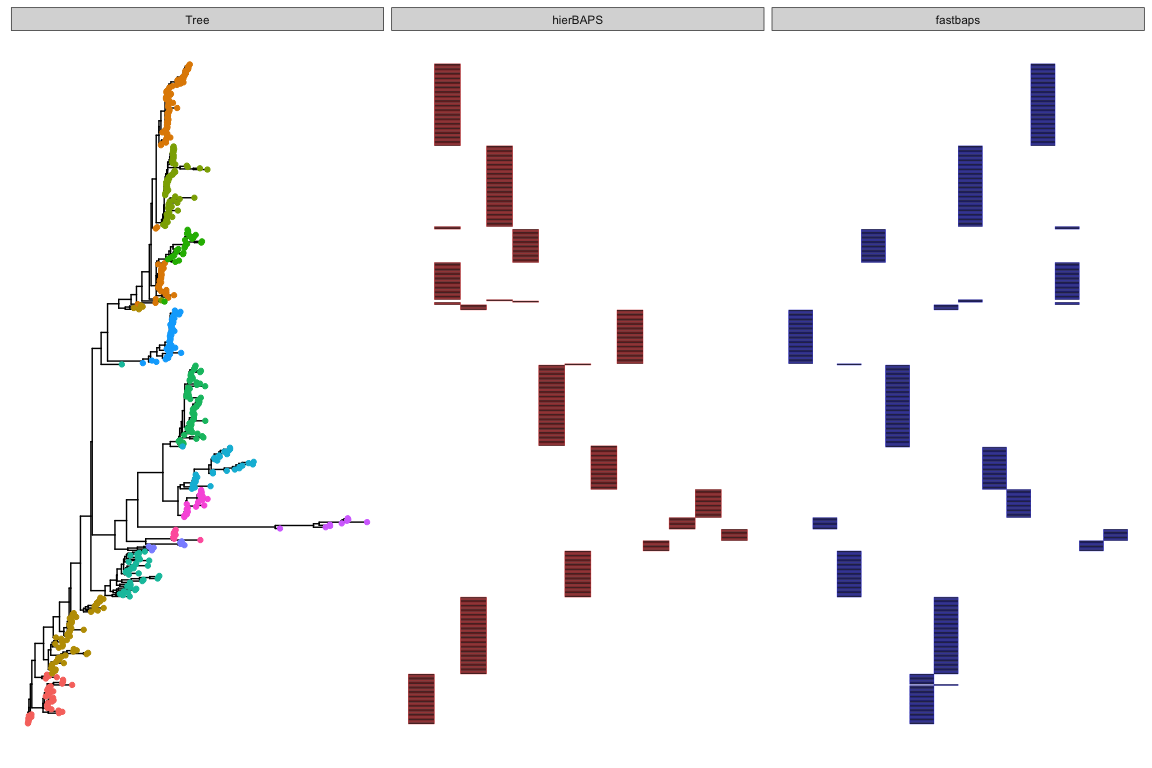
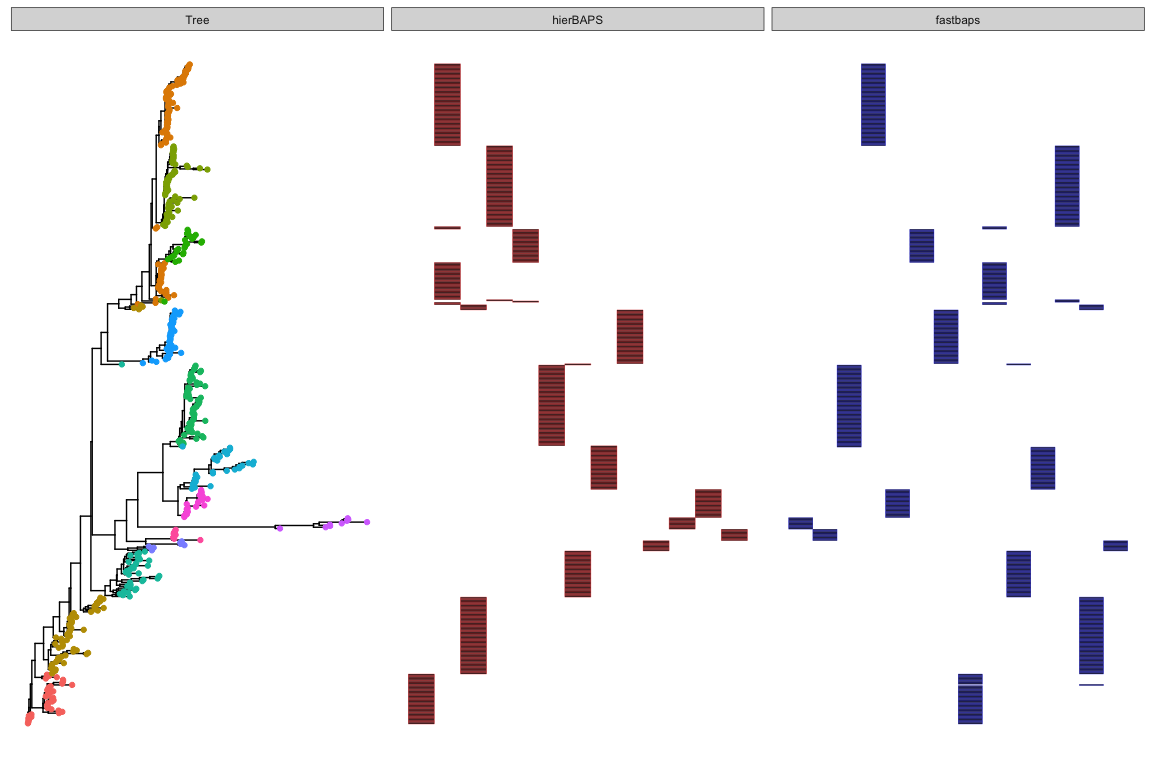
updated docs and passed checks (with lots of warnings)

diff --git a/src/RcppExports.cpp b/src/RcppExports.cpp
@@ -6,19 +6,6 @@
 
 using namespace Rcpp;
 
-// bhier
-List bhier(List data, List partitions, NumericVector d_k);
-RcppExport SEXP _fastbaps_bhier(SEXP dataSEXP, SEXP partitionsSEXP, SEXP d_kSEXP) {
-BEGIN_RCPP
-    Rcpp::RObject rcpp_result_gen;
-    Rcpp::RNGScope rcpp_rngScope_gen;
-    Rcpp::traits::input_parameter< List >::type data(dataSEXP);
-    Rcpp::traits::input_parameter< List >::type partitions(partitionsSEXP);
-    Rcpp::traits::input_parameter< NumericVector >::type d_k(d_kSEXP);
-    rcpp_result_gen = Rcpp::wrap(bhier(data, partitions, d_k));
-    return rcpp_result_gen;
-END_RCPP
-}
 // bhier_parallel
 List bhier_parallel(List data, List partitions, NumericVector d_k, int n_cores);
 RcppExport SEXP _fastbaps_bhier_parallel(SEXP dataSEXP, SEXP partitionsSEXP, SEXP d_kSEXP, SEXP n_coresSEXP) {
@@ -30,6 +17,19 @@ BEGIN_RCPP
     Rcpp::traits::input_parameter< NumericVector >::type d_k(d_kSEXP);
     Rcpp::traits::input_parameter< int >::type n_cores(n_coresSEXP);
     rcpp_result_gen = Rcpp::wrap(bhier_parallel(data, partitions, d_k, n_cores));
+    return rcpp_result_gen;
+END_RCPP
+}
+// bhier
+List bhier(List data, List partitions, NumericVector d_k);
+RcppExport SEXP _fastbaps_bhier(SEXP dataSEXP, SEXP partitionsSEXP, SEXP d_kSEXP) {
+BEGIN_RCPP
+    Rcpp::RObject rcpp_result_gen;
+    Rcpp::RNGScope rcpp_rngScope_gen;
+    Rcpp::traits::input_parameter< List >::type data(dataSEXP);
+    Rcpp::traits::input_parameter< List >::type partitions(partitionsSEXP);
+    Rcpp::traits::input_parameter< NumericVector >::type d_k(d_kSEXP);
+    rcpp_result_gen = Rcpp::wrap(bhier(data, partitions, d_k));
     return rcpp_result_gen;
 END_RCPP
 }
@@ -94,8 +94,8 @@ END_RCPP
 }
 
 static const R_CallMethodDef CallEntries[] = {
-    {"_fastbaps_bhier", (DL_FUNC) &_fastbaps_bhier, 3},
     {"_fastbaps_bhier_parallel", (DL_FUNC) &_fastbaps_bhier_parallel, 4},
+    {"_fastbaps_bhier", (DL_FUNC) &_fastbaps_bhier, 3},
     {"_fastbaps_calc_ddk", (DL_FUNC) &_fastbaps_calc_ddk, 2},
     {"_fastbaps_compare_prior_grid", (DL_FUNC) &_fastbaps_compare_prior_grid, 2},
     {"_fastbaps_import_fasta_to_vector_each_nt", (DL_FUNC) &_fastbaps_import_fasta_to_vector_each_nt, 1},

diff --git a/README.md b/README.md
@@ -34,7 +34,12 @@ library(ape)
 fasta.file.name <- system.file("extdata", "seqs.fa", package = "fastbaps")
 sparse.data <- import_fasta_sparse_nt(fasta.file.name)
 baps.hc <- fast_baps(sparse.data)
+#> [1] "Calculating initial clustering..."
+#> [1] "Calculating initial dk values..."
+#> [1] "Clustering using hierarchical Bayesian clustering..."
 best.partition <- best_baps_partition(sparse.data, as.phylo(baps.hc))
+#> [1] "Calculating node marginal llks..."
+#> [1] "Finding best partition..."
 ```
 
 The fast BAPS algorithm is based on applying the hierarchical Bayesian clustering (BHC) algorithm of (Heller and Ghahramani 2005) to the problem of clustering genetic sequences using the same likelihood as BAPS (Cheng et al. 2013). The Bayesian hierarchical clustering can be initiated with sequences as individual clusters or by running a faster conventional hierarchical clustering initially followed by BHC of the resulting clusters.
@@ -75,12 +80,17 @@ It is a good idea to choose `k.init` to be significantly larger than the number 
 
 ``` r
 baps.hc <- fast_baps(sparse.data)
+#> [1] "Calculating initial clustering..."
+#> [1] "Calculating initial dk values..."
+#> [1] "Clustering using hierarchical Bayesian clustering..."
 ```
 
 This provides a Bayesian hierarchical clustering of the data. To obtain the partition of this hierarchy that maximises the marginal likelihood run
 
 ``` r
-best.partition <- best_baps_partition(sparse.data, as.phylo(baps.hc))
+best.partition <- best_baps_partition(sparse.data, baps.hc)
+#> [1] "Calculating node marginal llks..."
+#> [1] "Finding best partition..."
 ```
 
 We can compare the log marginal likelihood with that obtained using hierbaps.
@@ -116,16 +126,48 @@ f2
 
 ![](inst/vignette-supp/unnamed-chunk-12-1.png)
 
-Rather than choosing either the BAPS prior or the population means we can perform a grid search between these two priors to optimise our choice using Bayes factors.
+We can compare this result to other priors, either flat or the population mean based prior of Heller et al.
 
 ``` r
-sparse.data <- optimise_prior(sparse.data)
-#> [1] "Optimised hyperparameter: 0.4"
+sparse.data <- optimise_prior(sparse.data, type = "flat")
+#> [1] "Optimised hyperparameter: 0.2"
+
 baps.hc <- fast_baps(sparse.data)
-best.partition <- best_baps_partition(sparse.data, as.phylo(baps.hc))
+#> [1] "Calculating initial clustering..."
+#> [1] "Calculating initial dk values..."
+#> [1] "Clustering using hierarchical Bayesian clustering..."
+best.partition <- best_baps_partition(sparse.data, baps.hc)
+#> [1] "Calculating node marginal llks..."
+#> [1] "Finding best partition..."
+
+plot.df <- data.frame(id = colnames(sparse.data$snp.matrix), val = hb.results$partition.df$`level 1`, 
+    fastbaps = best.partition, stringsAsFactors = FALSE)
+
+gg <- ggtree(iqtree)
+gg <- gg %<+% data.frame(id = colnames(sparse.data$snp.matrix), hierBAPS = hb.results$partition.df$`level 1`)
+gg <- gg + geom_tippoint(aes(color = factor(hierBAPS)))
+
+f1 <- facet_plot(gg, panel = "hierBAPS", data = plot.df, geom = geom_tile, aes(x = val), 
+    color = "red")
+f2 <- facet_plot(f1, panel = "fastbaps", data = plot.df, geom = geom_tile, aes(x = fastbaps), 
+    color = "blue")
+f2
 ```
 
+![](inst/vignette-supp/unnamed-chunk-13-1.png)
+
 ``` r
+sparse.data <- optimise_prior(sparse.data, type = "hc")
+#> [1] "Optimised hyperparameter: 1.3"
+
+baps.hc <- fast_baps(sparse.data)
+#> [1] "Calculating initial clustering..."
+#> [1] "Calculating initial dk values..."
+#> [1] "Clustering using hierarchical Bayesian clustering..."
+best.partition <- best_baps_partition(sparse.data, baps.hc)
+#> [1] "Calculating node marginal llks..."
+#> [1] "Finding best partition..."
+
 plot.df <- data.frame(id = colnames(sparse.data$snp.matrix), val = hb.results$partition.df$`level 1`, 
     fastbaps = best.partition, stringsAsFactors = FALSE)
 
@@ -142,6 +184,136 @@ f2
 
 ![](inst/vignette-supp/unnamed-chunk-14-1.png)
 
+we can also investigate multiple levels
+
+``` r
+sparse.data <- import_fasta_sparse_nt(fasta.file.name, prior = "baps")
+multi <- multi_res_baps(sparse.data)
+#> [1] "Clustering at level 1"
+#> [1] "Calculating initial clustering..."
+#> [1] "Calculating initial dk values..."
+#> [1] "Clustering using hierarchical Bayesian clustering..."
+#> [1] "Calculating node marginal llks..."
+#> [1] "Finding best partition..."
+#> [1] "Clustering at level 2"
+#> [1] "Calculating initial clustering..."
+#> [1] "Calculating initial dk values..."
+#> [1] "Clustering using hierarchical Bayesian clustering..."
+#> [1] "Calculating node marginal llks..."
+#> [1] "Finding best partition..."
+#> [1] "Calculating initial clustering..."
+#> [1] "Calculating initial dk values..."
+#> [1] "Clustering using hierarchical Bayesian clustering..."
+#> [1] "Calculating node marginal llks..."
+#> [1] "Finding best partition..."
+#> [1] "Calculating initial clustering..."
+#> [1] "Calculating initial dk values..."
+#> [1] "Clustering using hierarchical Bayesian clustering..."
+#> [1] "Calculating node marginal llks..."
+#> [1] "Finding best partition..."
+#> [1] "Calculating initial clustering..."
+#> [1] "Calculating initial dk values..."
+#> [1] "Clustering using hierarchical Bayesian clustering..."
+#> [1] "Calculating node marginal llks..."
+#> [1] "Finding best partition..."
+#> [1] "Calculating initial clustering..."
+#> [1] "Calculating initial dk values..."
+#> [1] "Clustering using hierarchical Bayesian clustering..."
+#> [1] "Calculating node marginal llks..."
+#> [1] "Finding best partition..."
+#> [1] "Calculating initial clustering..."
+#> [1] "Calculating initial dk values..."
+#> [1] "Clustering using hierarchical Bayesian clustering..."
+#> [1] "Calculating node marginal llks..."
+#> [1] "Finding best partition..."
+#> [1] "Calculating initial clustering..."
+#> [1] "Calculating initial dk values..."
+#> [1] "Clustering using hierarchical Bayesian clustering..."
+#> [1] "Calculating node marginal llks..."
+#> [1] "Finding best partition..."
+#> [1] "Calculating initial clustering..."
+#> [1] "Calculating initial dk values..."
+#> [1] "Clustering using hierarchical Bayesian clustering..."
+#> [1] "Calculating node marginal llks..."
+#> [1] "Finding best partition..."
+#> [1] "Calculating initial clustering..."
+#> [1] "Calculating initial dk values..."
+#> [1] "Clustering using hierarchical Bayesian clustering..."
+#> [1] "Calculating node marginal llks..."
+#> [1] "Finding best partition..."
+#> [1] "Calculating initial clustering..."
+#> [1] "Calculating initial dk values..."
+#> [1] "Clustering using hierarchical Bayesian clustering..."
+#> [1] "Calculating node marginal llks..."
+#> [1] "Finding best partition..."
+#> [1] "Calculating initial clustering..."
+#> [1] "Calculating initial dk values..."
+#> [1] "Clustering using hierarchical Bayesian clustering..."
+#> [1] "Calculating node marginal llks..."
+#> [1] "Finding best partition..."
+#> [1] "Calculating initial clustering..."
+#> [1] "Calculating initial dk values..."
+#> [1] "Clustering using hierarchical Bayesian clustering..."
+#> [1] "Calculating node marginal llks..."
+#> [1] "Finding best partition..."
+#> [1] "Calculating initial clustering..."
+#> [1] "Calculating initial dk values..."
+#> [1] "Clustering using hierarchical Bayesian clustering..."
+#> [1] "Calculating node marginal llks..."
+#> [1] "Finding best partition..."
+#> [1] "Calculating initial clustering..."
+#> [1] "Calculating initial dk values..."
+#> [1] "Clustering using hierarchical Bayesian clustering..."
+#> [1] "Calculating node marginal llks..."
+#> [1] "Finding best partition..."
+
+plot.df <- data.frame(id = colnames(sparse.data$snp.matrix), val = hb.results$partition.df$`level 1`, 
+    fastbaps = multi$`Level 1`, fastbaps2 = multi$`Level 2`, stringsAsFactors = FALSE)
+
+gg <- ggtree(iqtree)
+gg <- gg %<+% data.frame(id = colnames(sparse.data$snp.matrix), hierBAPS = hb.results$partition.df$`level 1`)
+gg <- gg + geom_tippoint(aes(color = factor(hierBAPS)))
+
+f1 <- facet_plot(gg, panel = "hierBAPS", data = plot.df, geom = geom_tile, aes(x = val), 
+    color = "red")
+f2 <- facet_plot(f1, panel = "fastbaps level 1", data = plot.df, geom = geom_tile, 
+    aes(x = fastbaps), color = "blue")
+f2 <- facet_plot(f1, panel = "fastbaps level 2", data = plot.df, geom = geom_tile, 
+    aes(x = fastbaps2), color = "green")
+f2
+```
+
+![](inst/vignette-supp/unnamed-chunk-15-1.png)
+
+finally we can condition on an initial hierarchy or phylogeny.
+
+``` r
+sparse.data <- import_fasta_sparse_nt(fasta.file.name, prior = "baps")
+
+iqtree.rooted <- phytools::midpoint.root(iqtree)
+best.partition <- best_baps_partition(sparse.data, iqtree.rooted)
+#> [1] "Calculating node marginal llks..."
+#> [1] "Finding best partition..."
+
+temp.df <- hb.results$partition.df[match(iqtree.rooted$tip.label, hb.results$partition.df$Isolate), 
+    ]
+
+plot.df <- data.frame(id = iqtree.rooted$tip.label, val = temp.df$`level 1`, 
+    fastbaps = best.partition, stringsAsFactors = FALSE)
+
+gg <- ggtree(iqtree.rooted)
+gg <- gg %<+% data.frame(id = colnames(sparse.data$snp.matrix), hierBAPS = hb.results$partition.df$`level 1`)
+gg <- gg + geom_tippoint(aes(color = factor(hierBAPS)))
+
+f1 <- facet_plot(gg, panel = "hierBAPS", data = plot.df, geom = geom_tile, aes(x = val), 
+    color = "red")
+f2 <- facet_plot(f1, panel = "fastbaps", data = plot.df, geom = geom_tile, aes(x = fastbaps), 
+    color = "blue")
+f2
+```
+
+![](inst/vignette-supp/unnamed-chunk-16-1.png)
+
 Calculating pairwise SNP similarity and distance matrices
 ---------------------------------------------------------
 
@@ -157,9 +329,11 @@ By using the distance matrix to very quickly calculate a hierarchy using Ward's 
 ``` r
 d <- as.dist(snp.distance.matrix/max(snp.distance.matrix))
 h <- hclust(d, method = "ward.D2")
-best.partition.ward <- best_baps_partition(sparse.data, as.phylo(h))
+best.partition.ward <- best_baps_partition(sparse.data, h)
+#> [1] "Calculating node marginal llks..."
+#> [1] "Finding best partition..."
 calc_marginal_llk(sparse.data, best.partition.ward)
-#> [1] -54938.66
+#> [1] -49621.05
 ```
 
 References
